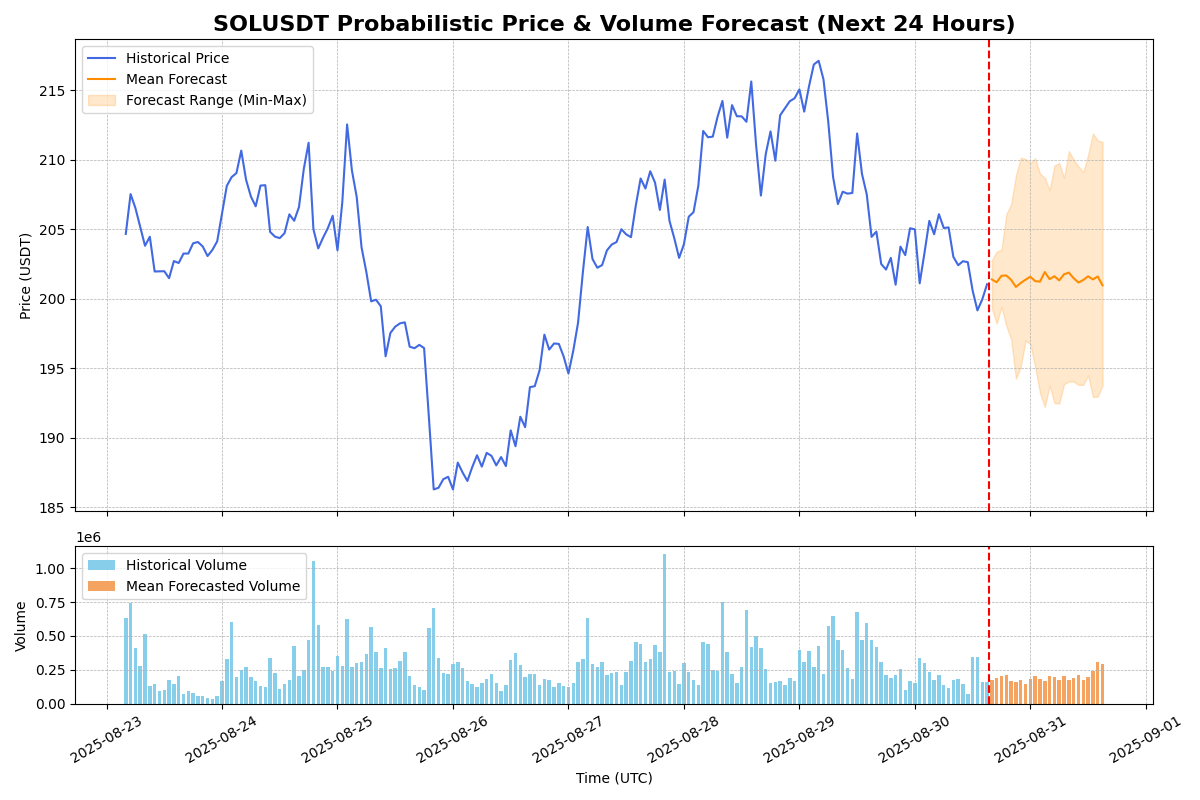
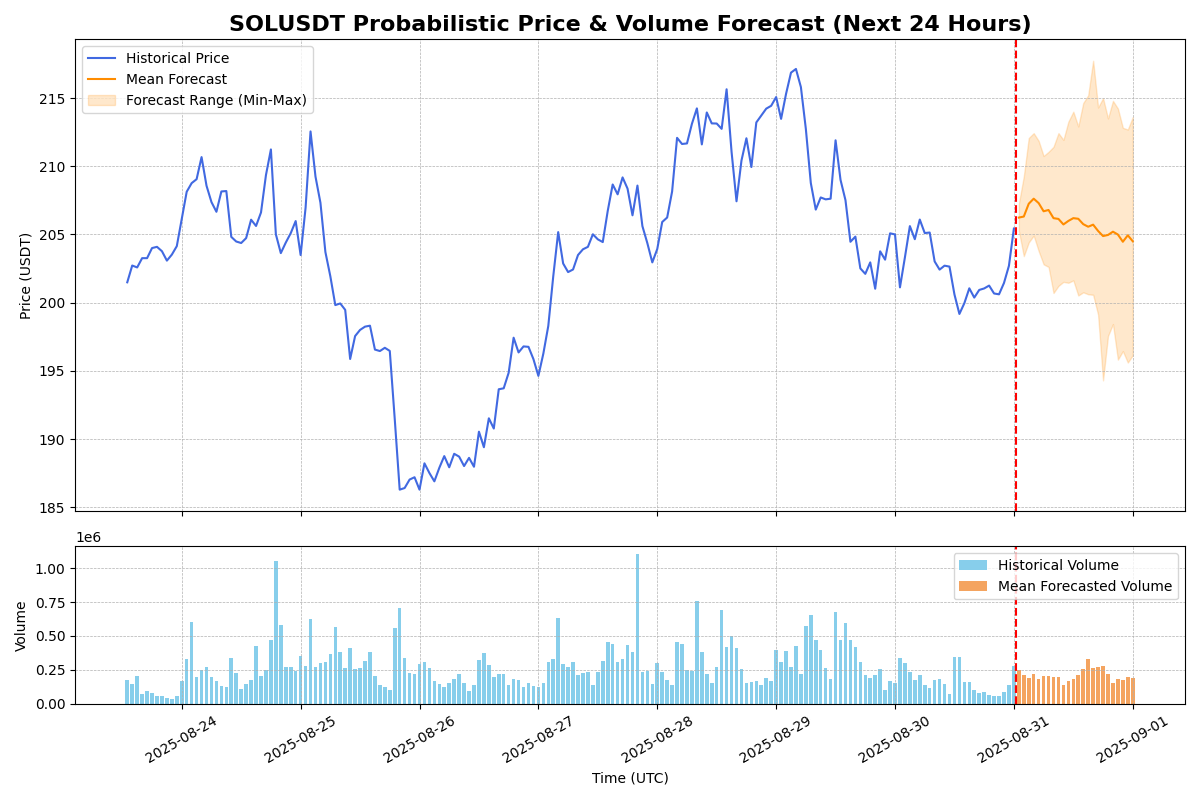
Initial forecasts for 2025-08-31 01:16 UTC

diff --git a/index.html b/index.html
@@ -20,7 +20,7 @@
     <main class="container">
         <section id="live-dashboard">
             <div class="metadata">
-                <span>服务运行生成数据时间: <strong>2025-08-30 16:04:49</strong></span>
+                <span>服务运行生成数据时间: <strong>2025-08-31 01:16:48</strong></span>
                 <span>数据来源: Binance (via CCXT) | 时间间隔: 1小时</span>
             </div>
                <div class="chart-wrapper">
@@ -34,12 +34,12 @@
             <div class="metrics-container">
                 <div class="metric-card">
                     <h3>上涨概率 (未来24小时)</h3>
-                    <p class="metric-value" id="upside-prob-BTCUSDT">60.0%</p>
+                    <p class="metric-value" id="upside-prob-BTCUSDT">26.7%</p>
                     <div class="metric-desc">模型对24小时后价格高于当前价格的信心程度。</div>
                 </div>
                 <div class="metric-card">
                     <h3>波动性增加 (未来24小时)</h3>
-                    <p class="metric-value" id="vol-amp-prob-BTCUSDT">6.7%</p>
+                    <p class="metric-value" id="vol-amp-prob-BTCUSDT">53.3%</p>
                     <div class="metric-desc">未来24小时预测波动性超过近期历史波动性的概率。</div>
                 </div>
             </div>
@@ -57,7 +57,7 @@
             <div class="metrics-container">
                 <div class="metric-card">
                     <h3>上涨概率 (未来24小时)</h3>
-                    <p class="metric-value" id="upside-prob-ETHUSDT">20.0%</p>
+                    <p class="metric-value" id="upside-prob-ETHUSDT">6.7%</p>
                     <div class="metric-desc">模型对24小时后价格高于当前价格的信心程度。</div>
                 </div>
                 <div class="metric-card">
@@ -85,7 +85,7 @@
                 </div>
                 <div class="metric-card">
                     <h3>波动性增加 (未来24小时)</h3>
-                    <p class="metric-value" id="vol-amp-prob-SOLUSDT">20.0%</p>
+                    <p class="metric-value" id="vol-amp-prob-SOLUSDT">46.7%</p>
                     <div class="metric-desc">未来24小时预测波动性超过近期历史波动性的概率。</div>
                 </div>
             </div>
@@ -103,12 +103,12 @@
             <div class="metrics-container">
                 <div class="metric-card">
                     <h3>上涨概率 (未来24小时)</h3>
-                    <p class="metric-value" id="upside-prob-SUIUSDT">53.3%</p>
+                    <p class="metric-value" id="upside-prob-SUIUSDT">20.0%</p>
                     <div class="metric-desc">模型对24小时后价格高于当前价格的信心程度。</div>
                 </div>
                 <div class="metric-card">
                     <h3>波动性增加 (未来24小时)</h3>
-                    <p class="metric-value" id="vol-amp-prob-SUIUSDT">0.0%</p>
+                    <p class="metric-value" id="vol-amp-prob-SUIUSDT">6.7%</p>
                     <div class="metric-desc">未来24小时预测波动性超过近期历史波动性的概率。</div>
                 </div>
             </div>
@@ -131,7 +131,7 @@
                 </div>
                 <div class="metric-card">
                     <h3>波动性增加 (未来24小时)</h3>
-                    <p class="metric-value" id="vol-amp-prob-BNBUSDT">26.7%</p>
+                    <p class="metric-value" id="vol-amp-prob-BNBUSDT">80.0%</p>
                     <div class="metric-desc">未来24小时预测波动性超过近期历史波动性的概率。</div>
                 </div>
             </div>
@@ -154,7 +154,7 @@
                 </div>
                 <div class="metric-card">
                     <h3>波动性增加 (未来24小时)</h3>
-                    <p class="metric-value" id="vol-amp-prob-DOGEUSDT">6.7%</p>
+                    <p class="metric-value" id="vol-amp-prob-DOGEUSDT">20.0%</p>
                     <div class="metric-desc">未来24小时预测波动性超过近期历史波动性的概率。</div>
                 </div>
             </div>
